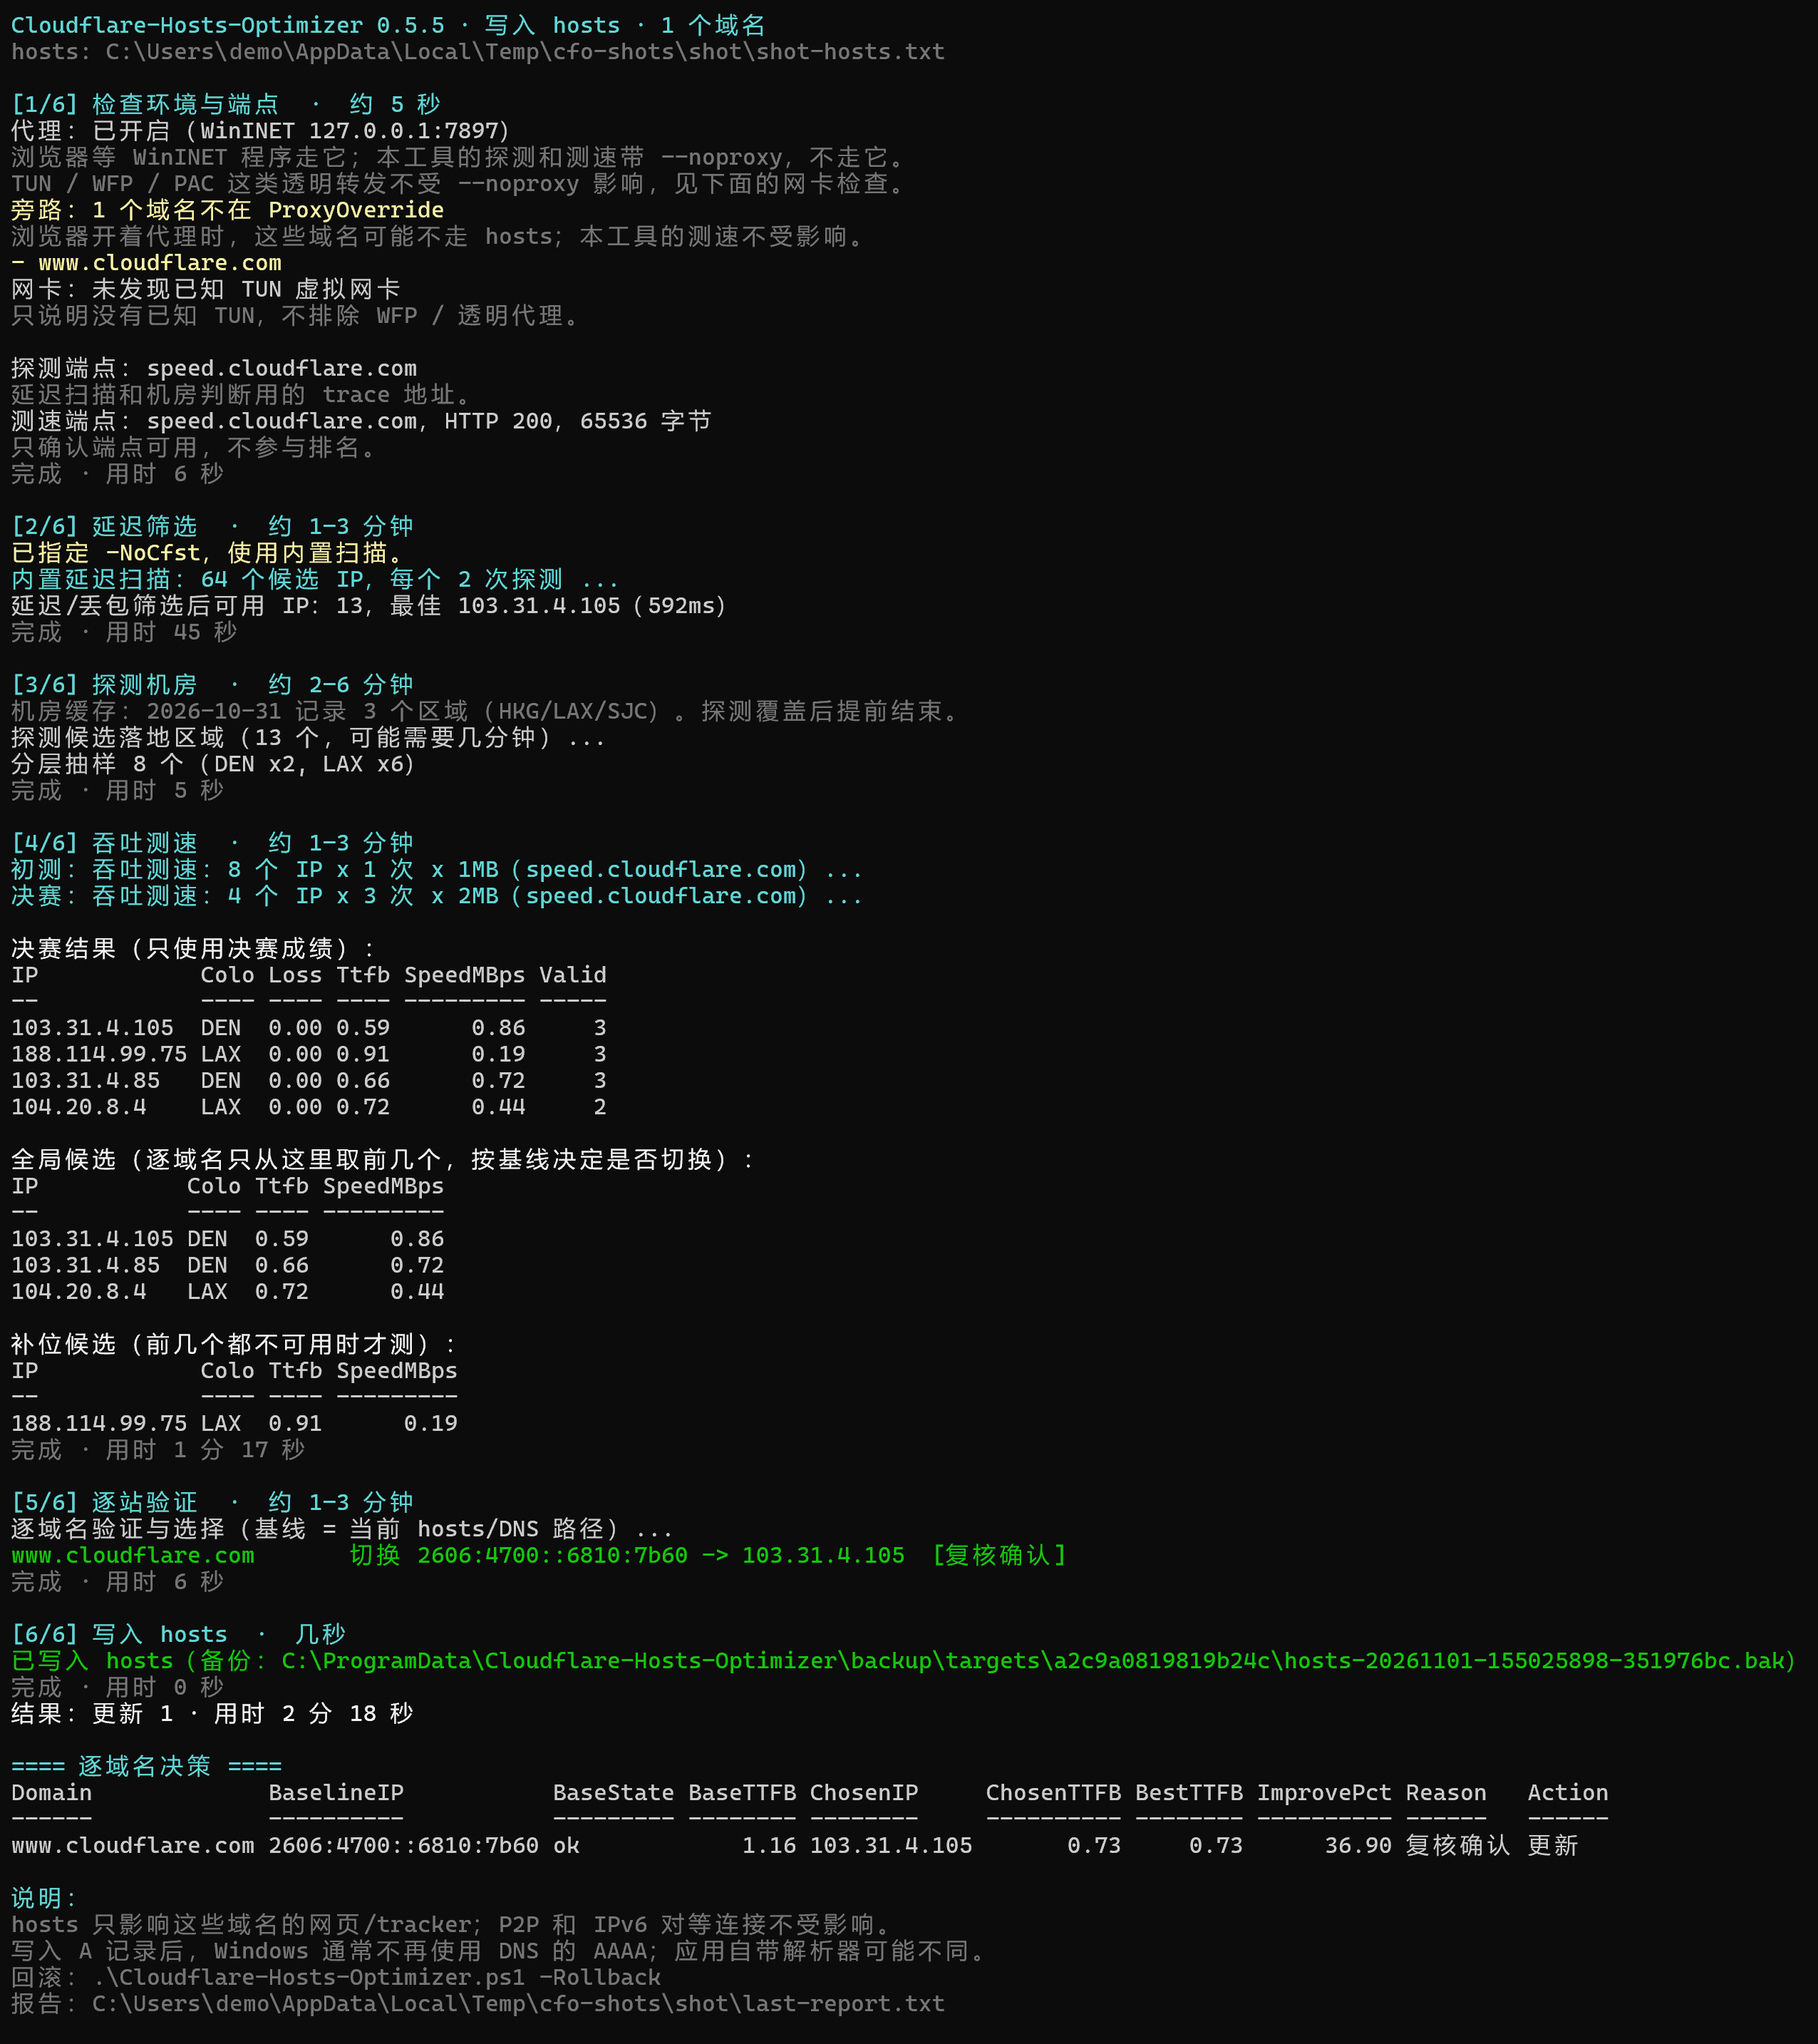
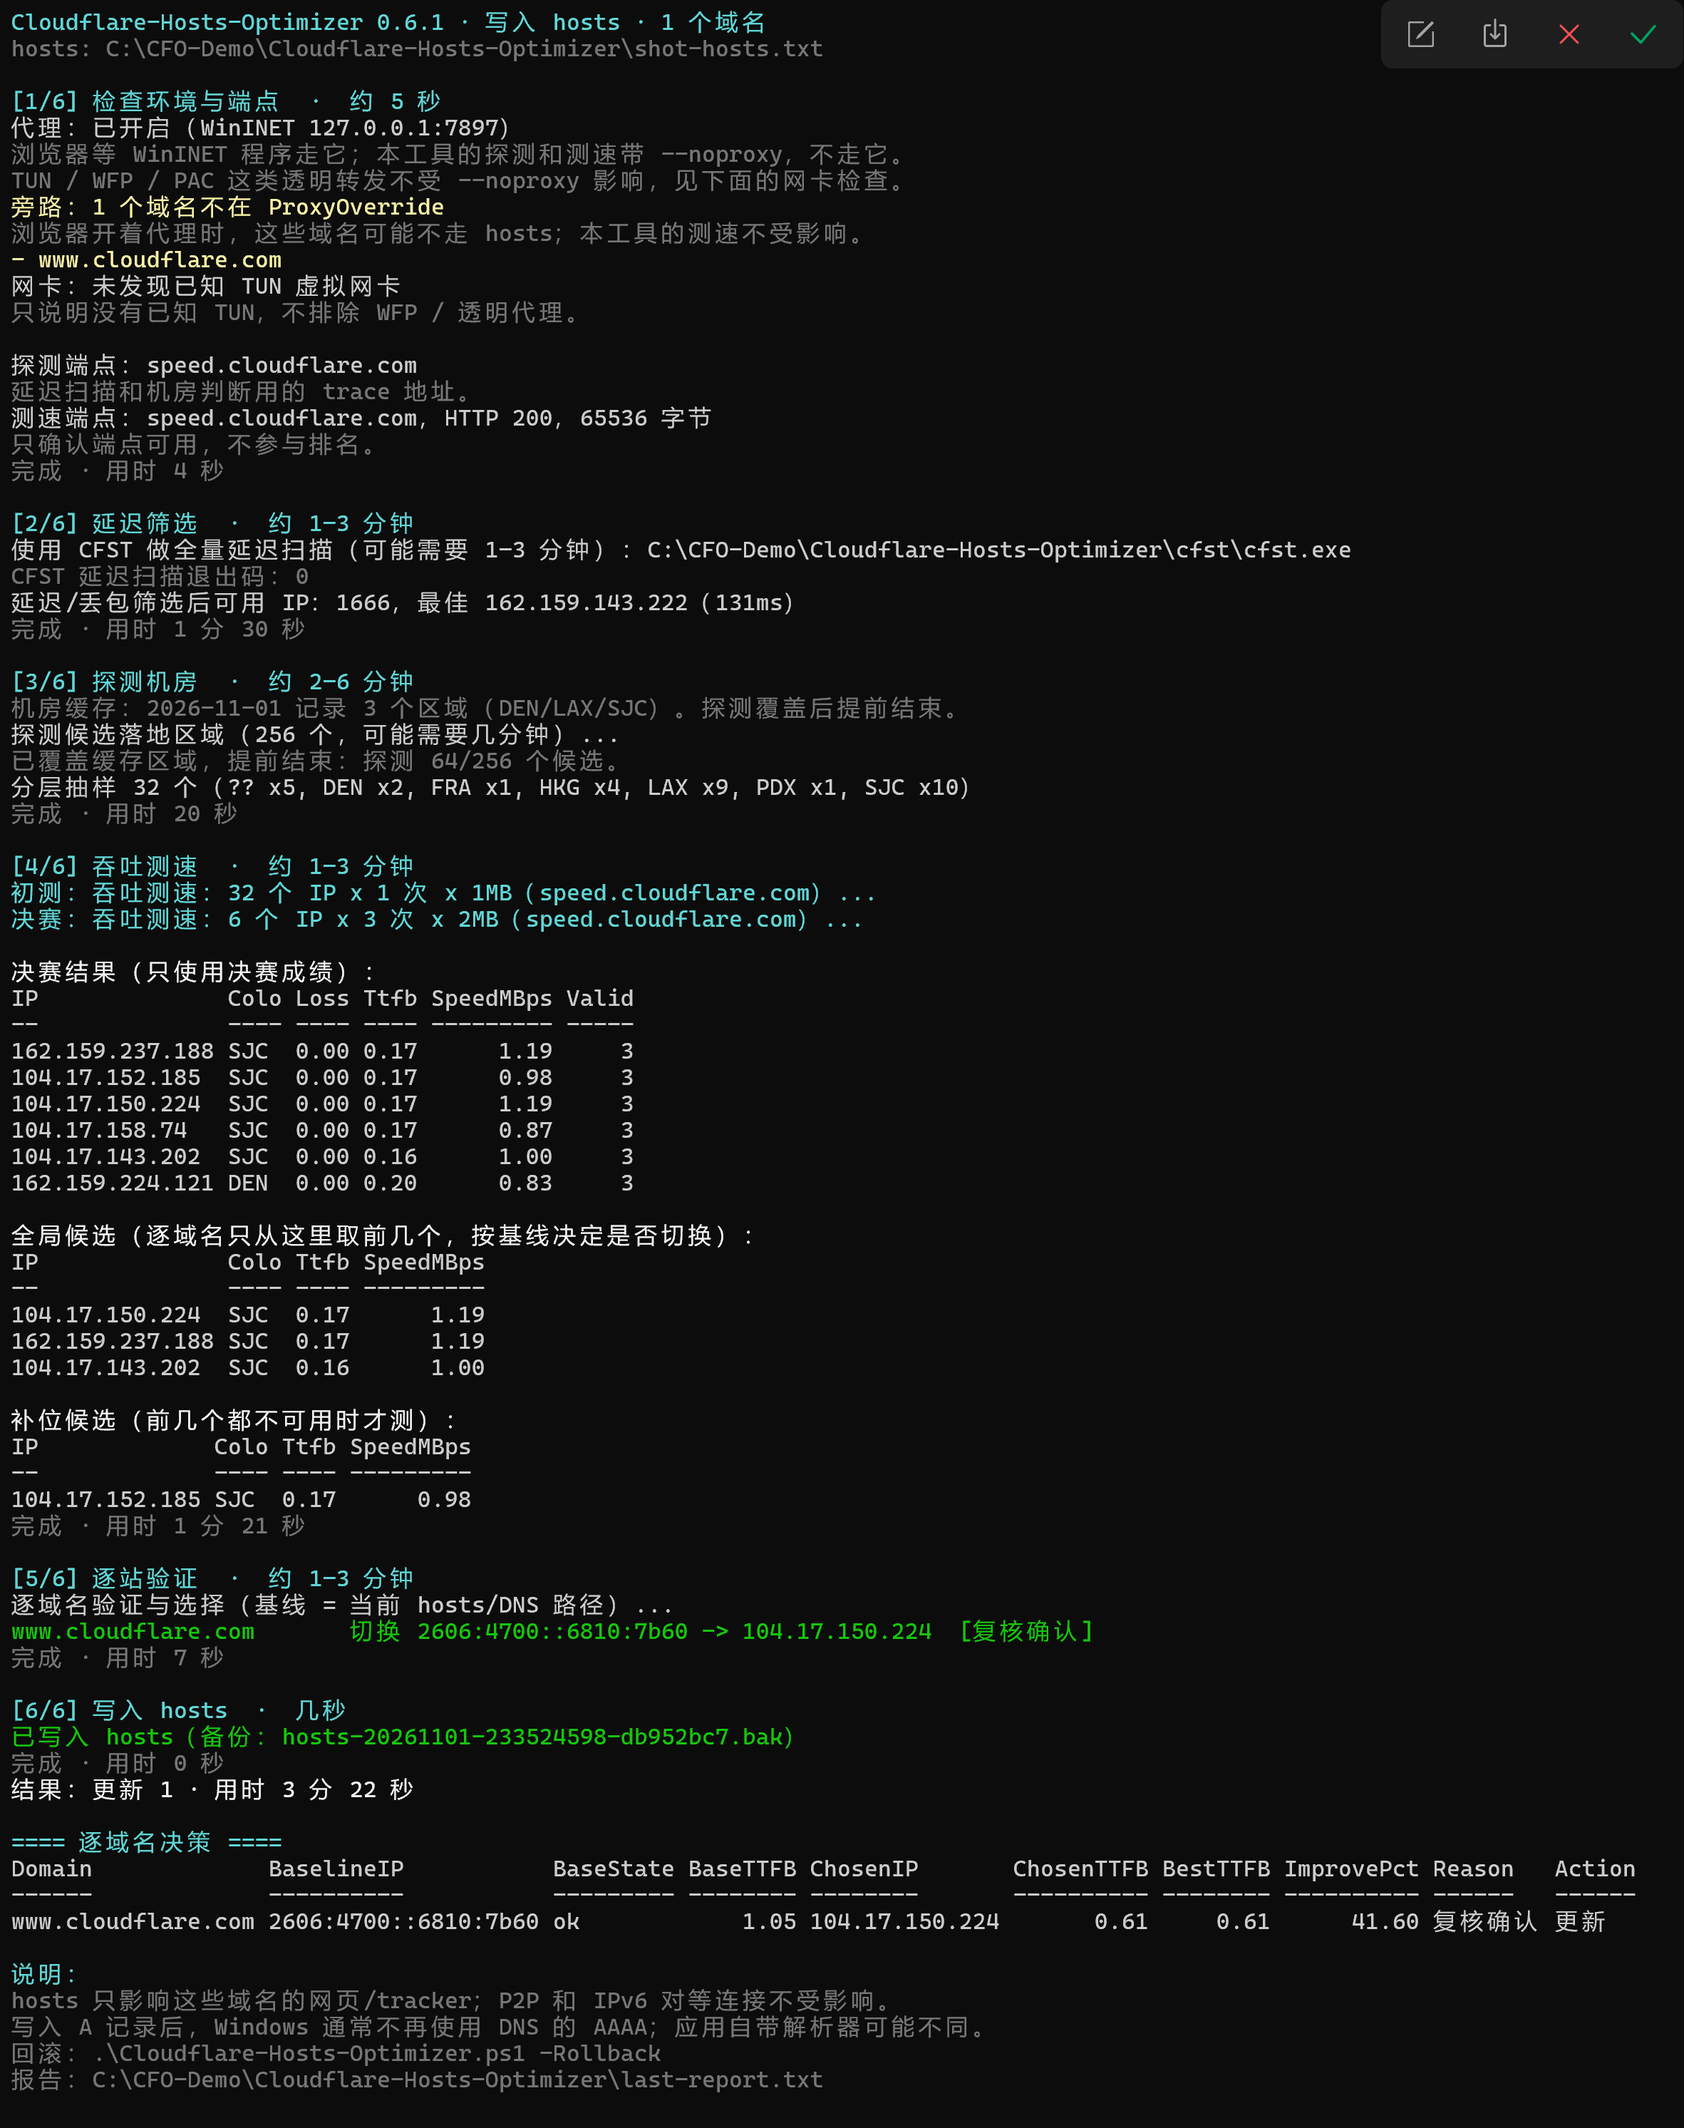
chore: release v0.6.1 with updated demo screenshots
Skip DNS flushing for sandbox hosts, show only the backup file name in the console, and refresh the menu and full-run screenshots for 0.6.1.

diff --git a/CHANGELOG.md b/CHANGELOG.md
@@ -1,5 +1,22 @@
 # Changelog
 
+## 0.6.1 - 2026-11-01
+
+本版没有功能变化，是 0.6.0 的发布收尾：更新 0.6.1 的演示截图，并补齐此前没有现场
+覆盖的验证（UAC 取消、管理员沙箱写入/回滚、PowerShell 7.0、真实菜单流程等）。
+
+### Changed
+
+- `docs/images/menu.png`、`docs/images/run.png` 更新为 0.6.1 演示；run.png 使用
+  v0.6.1 的沙箱备份位置（仓库 `backup\targets\...`），用户名/临时路径已脱敏。
+
+### Fixed
+
+- 沙箱 `-HostsPath` 的写入和回滚不再调用 `ipconfig /flushdns`；非管理员沙箱运行
+  不会再出现“需要提升权限”的刷缓存警告。系统 hosts 仍会刷新 DNS。
+- 写入成功的控制台提示只显示备份文件名；完整备份路径写入报告日志，避免超长绝对
+  路径把终端输出拉得很宽。
+
 ## 0.6.0 - 2026-11-01
 
 本版没有新增功能，是对 0.5.6 评审修复的一次收敛：删掉不再需要的防御和重复代码，

diff --git a/docs/guide.md b/docs/guide.md
@@ -34,7 +34,7 @@
 ### 首次启动
 
 ```text
-Cloudflare-Hosts-Optimizer 0.6.0
+Cloudflare-Hosts-Optimizer 0.6.1
 域名 12 个 · hosts 已写入 10 个 · CFST 已安装
 上次运行：2026-11-01 10:28 · 写入 · 退出码 0
 最近提交：写入 · 2026-11-01 10:28
